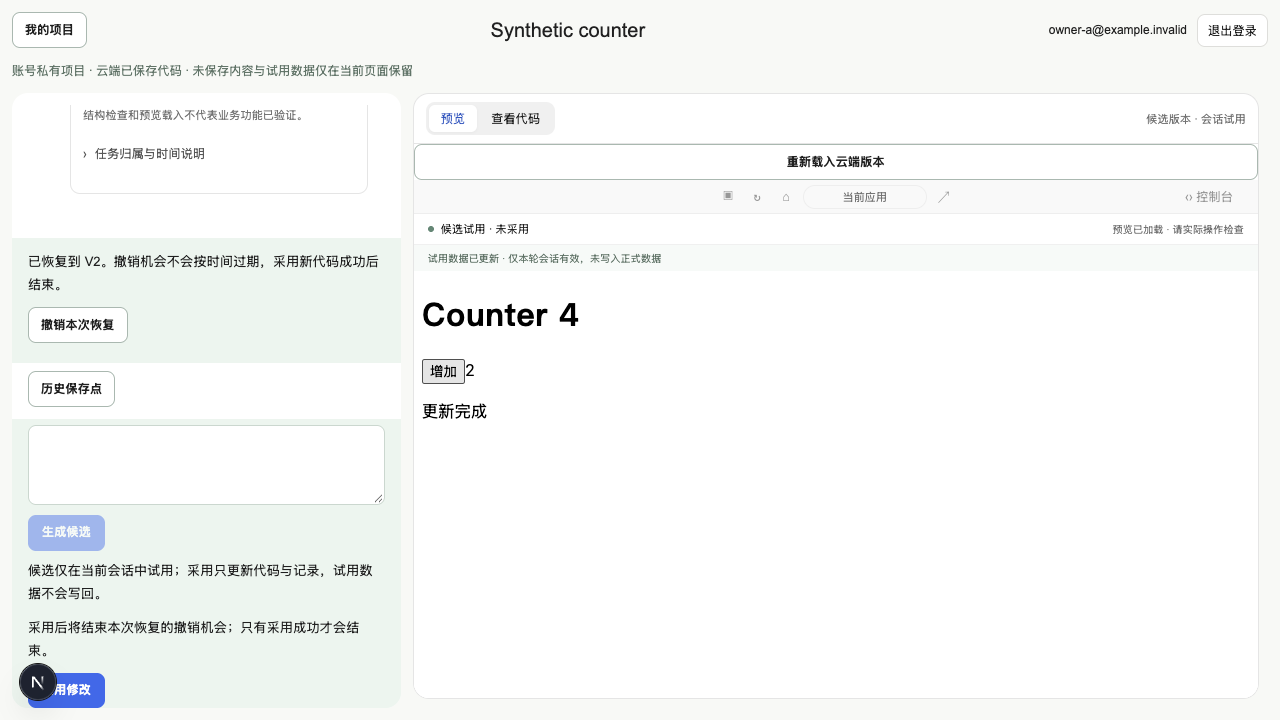
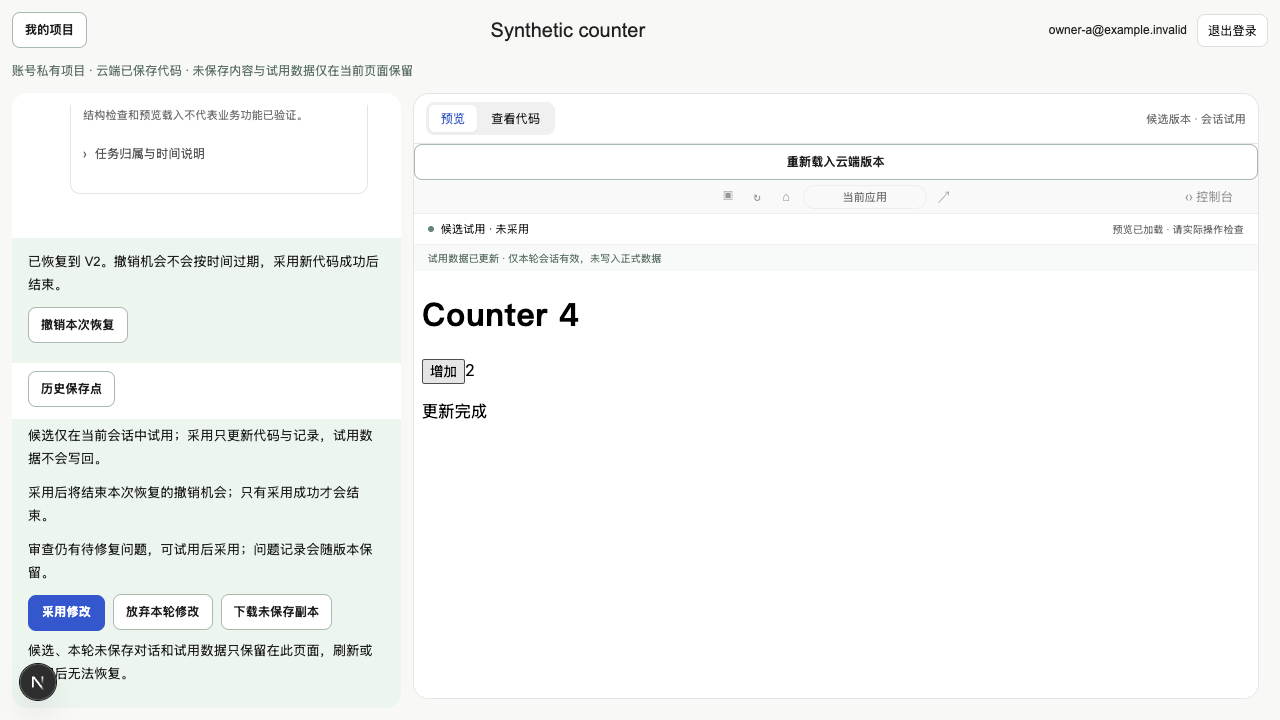
fix: keep adoption reasons visible above the action

Changed region(s): [[0.0, 0.6722, 0.3125, 1.0], [0.0, 0.5806, 0.3125, 0.6417]]

diff --git a/src/components/cloud-workbench.tsx b/src/components/cloud-workbench.tsx
@@ -25,9 +25,9 @@ export function CloudWorkbench({ session, accountSlot, onBack, onReload, onLogin
     {state.generating && <><p role="status">团队正在生成，最多 4 分钟、20 次模型请求。请保持页面打开。</p><button className="secondary-button" onClick={()=>session.stop()}>停止生成</button></>}
     {artifact && <><p>{state.cloud ? "候选仅在当前会话中试用；采用只更新代码与记录，试用数据不会写回。" : state.saving ? "首次成果正在保存，云端提交后才会确认。" : "首次成果尚未确认云端保存。"}</p>
       {state.cloud?.restore && <p>采用后将结束本次恢复的撤销机会；只有采用成功才会结束。</p>}
-      {state.cloud && !state.pending && <button className="primary-button" disabled={!!adoptionBlock} aria-describedby={adoptionBlock ? "adoption-block-reason" : artifact.policy.review === "issues" ? "adoption-review-note" : undefined} onClick={()=>void session.commit()}>采用修改</button>}
       {adoptionBlock && <div className="adoption-block" id="adoption-block-reason" role="status"><p>{adoptionBlock.message}</p>{adoptionBlock.details.length > 0 && <ul>{adoptionBlock.details.map((detail,index)=><li key={index}>{detail}</li>)}</ul>}</div>}
       {!adoptionBlock && artifact.policy.review === "issues" && <p id="adoption-review-note">审查仍有待修复问题，可试用后采用；问题记录会随版本保留。</p>}
+      {state.cloud && !state.pending && <button className="primary-button" disabled={!!adoptionBlock} aria-describedby={adoptionBlock ? "adoption-block-reason" : artifact.policy.review === "issues" ? "adoption-review-note" : undefined} onClick={()=>void session.commit()}>采用修改</button>}
       {!state.pending && state.cloud && <button className="secondary-button" disabled={state.generating || state.saving} onClick={()=>session.discard()}>放弃本轮修改</button>}
       {!state.pending && <button className="secondary-button" onClick={()=>session.download()}>下载未保存副本</button>}
     </>}

diff --git a/tests/browser/cloud-adoption-policy.spec.ts b/tests/browser/cloud-adoption-policy.spec.ts
@@ -27,7 +27,7 @@ for(const [category,severity] of [['persistence','major'],['data-loss','minor']]
   await page.getByLabel('追加修改需求').fill('change');await page.getByRole('button',{name:'生成候选',exact:true}).click();
   const button=page.getByRole('button',{name:'采用修改',exact:true});await expect(button).toBeDisabled();
   await expect(page.getByRole('status').filter({hasText:'数据丢失或重大保存风险'})).toContainText('保存后可能丢失已有字段');
-  await button.scrollIntoViewIfNeeded();await page.screenshot({path:info.outputPath('risk-blocked.png')});
+  await button.scrollIntoViewIfNeeded();await expect(page.getByRole('status').filter({hasText:'数据丢失或重大保存风险'})).toBeInViewport();await page.screenshot({path:info.outputPath('risk-blocked.png')});
   expect([...store.rows.values()][0].cloud.version.code).toBe(1);
  });
 }
